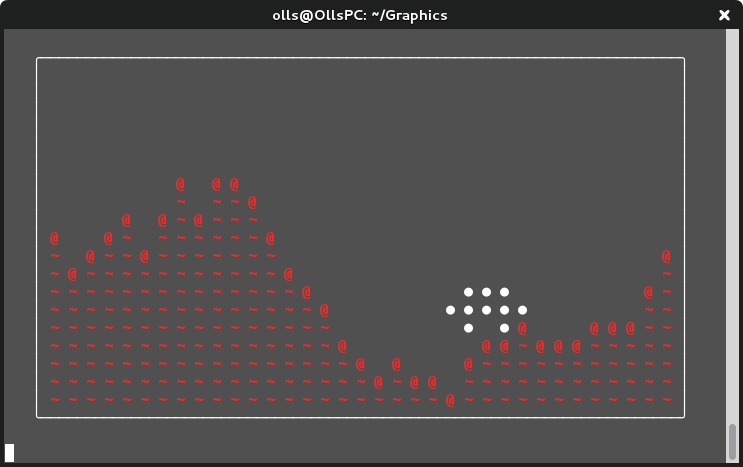
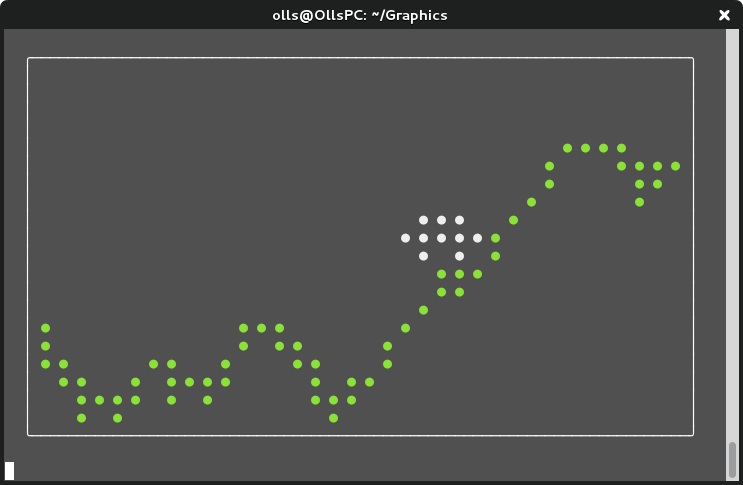
Added new screenshot of game.py and gave the game a fixed size

diff --git a/game.py b/game.py
@@ -19,7 +19,7 @@ class Car( g.shapes.Image ):
 def genGround(width, height, llimit, ulimit):
     image = [[] for i in range(height)]
 
-    groundPos = int((ulimit + llimit) /2)
+    groundPos = int((ulimit + llimit) /3)*2
 
     for i in range(width):
 
@@ -49,7 +49,7 @@ def main():
 
     FPS = 15
 
-    screen = g.Canvas( fullscreen=True )
+    screen = g.Canvas( size = ( 36, 20 ) )
 
     car = g.Sprite(
         Car(),
